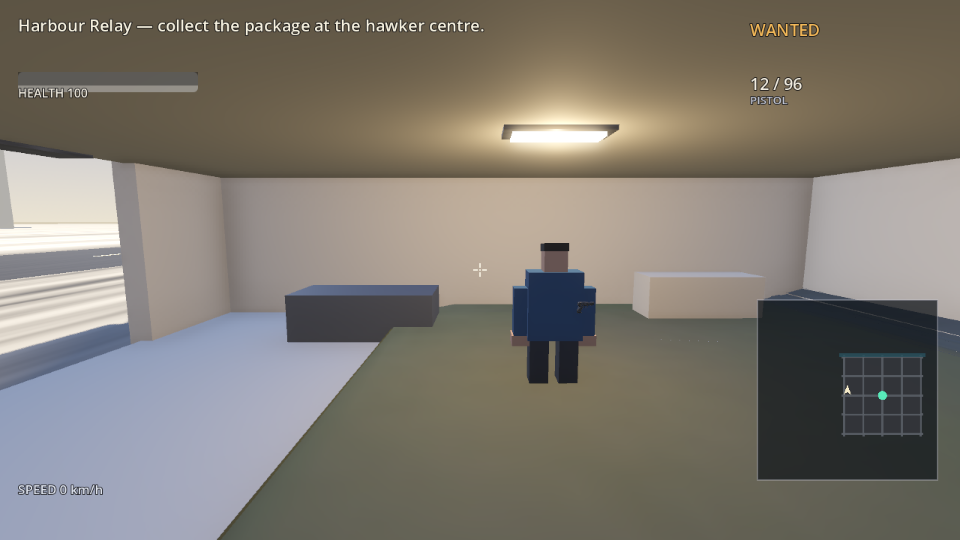
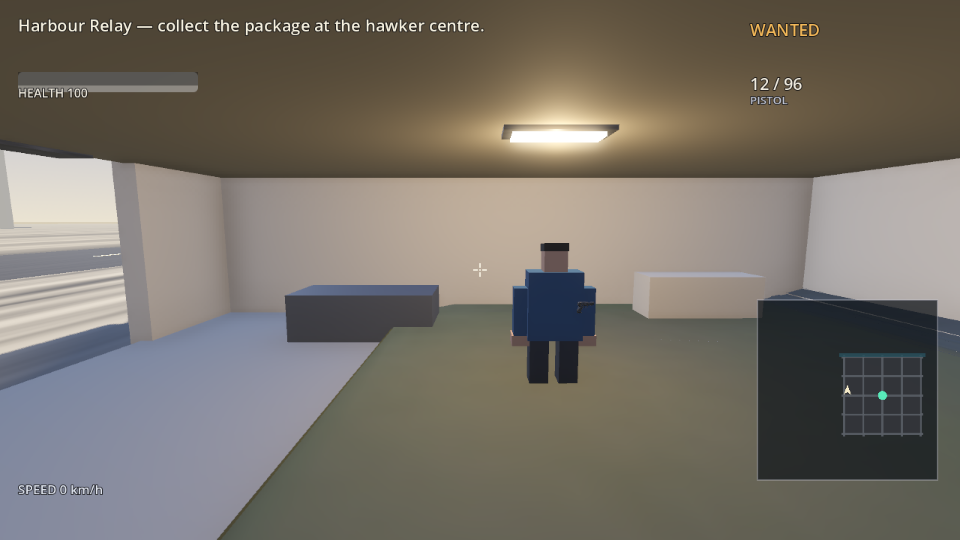
Wave 1: evidence index, build-size note, darker ground tones and a wider pickup reach

diff --git a/docs/EVIDENCE.md b/docs/EVIDENCE.md
@@ -1,0 +1,67 @@
+# Evidence index — wave 1
+
+Everything in this document was produced by the wave-1 builder on the reference machine (Apple M3 Ultra, 256 GB, macOS 27.0.1) with the build on the wave-1 branch. Where something was **not** tested, it says so.
+
+## 1. Automated checks
+
+```
+godot --headless --path game -- --test
+```
+
+30 checks, all PASS at the handoff commit: 20 structural (world built, mesh count, junction graph, pedestrian lanes, player + camera, traffic and pedestrian population, mission running, helicopter present, HUD present, save/load round trip, mission package interactable, vehicle counts, NPC counts) and 10 behavioural regression checks added after the independent review:
+
+| Behavioural check | What it proves |
+| --- | --- |
+| vehicle entry takes control | the mode changes to the car and the player is bound to it |
+| player is bound to the vehicle | one control owner, not two |
+| death in a vehicle releases control | the wave-1 softlock is fixed |
+| death in a vehicle returns to foot | the mode returns to foot |
+| gameplay camera returns to the player | exactly one gameplay camera |
+| the player can still walk after a vehicle death | no movement freeze |
+| a scripted interact press takes the vehicle | scripted and human input share one path |
+| no civilian traffic car is wrecked by street contact | the traffic self-destruction is fixed |
+| the wanted level falls as heat decays | pursuit can actually be escaped |
+| the world is frozen while paused | pause pauses the simulation |
+
+## 2. Capture packet — `game/captures/`
+
+| File | What it shows |
+| --- | --- |
+| `01_safe_room.png` | the mission start inside the safe room |
+| `02_hawker_market.png` | the hawker centre precinct |
+| `03_package_taken.png` | the package objective |
+| `04_combat.png` | the armed guards at the market |
+| `05_car_entered.png` | the stolen vehicle, control taken |
+| `06_driving.png` | driving at district speed with the generated coupe and the housing blocks behind it |
+| `07_exited_car.png` | back on foot at the aviation compound |
+| `08_helicopter_boarding.png` | the helicopter on the pad |
+| `09_aerial_view.png` | the same district from the air (QA-010) |
+| `10_landed.png` | the landing at the waterfront pad |
+| `11_delivery.png` | the on-foot delivery at the end of the mission |
+| `capture_log.json` | the state log of the run: health, wanted level, mission stage, mode, live counts, and every step the script took |
+| `photo_*.png` | fixed-view frames of the district: heritage street, wide street, hawker interior, void-deck housing, waterfront, two aerials, the airfield |
+| `photo_log.json` | the fixed-view log, labelled as fixture-assisted (an authored camera, not proof that a player can reach the view) |
+
+**What the packet is and is not.** The playthrough drives the real systems through the real input actions: it is an automated playtest, not an uncut human run, so QA-018 stays Partial. The fixed-view frames are shot from an authored camera and are labelled as such.
+
+## 3. Packaged build
+
+```
+godot --headless --path game --export-release "macOS" game/build/mac/OrchardReach.zip
+```
+
+A universal macOS `.app`/`.zip` is produced (about 132 MB after the provider textures were reduced to 1K — it was 644 MB before that step, which is a useful number for the successor's budget). The build output is git-ignored; rebuild it locally. Launching the packaged `.app` itself was not exercised in wave 1 — that is a NOT TESTED item for the successor.
+
+## 4. Provenance and rights
+
+- `docs/asset-manifest.csv` — every asset, its provider, the terms, the SHA256 of the raw source, the processed file and what it is used for.
+- `docs/ASSET_RIGHTS.md` — the rights check: the Customuse terms (19 June 2026) permit commercial and public use of outputs with no attribution requirement, and the input and output review found no third-party content. Redistribution is therefore permitted; the binaries are kept out of the git history for size, not for rights, and `game/tools/fetch_provider_assets.sh` reproduces all eighteen sources.
+- `docs/visual-references.json` and `docs/concepts/` — the owner's reference board. The concepts are the primary art direction; the external Rockstar and Singapore photography is secondary location evidence and nothing from it is copied into the repository or the build.
+
+## 5. Not tested in wave 1 (explicit)
+
+- 30-minute soak, three consecutive mission completions, frame-time percentiles (PERF-02/03/04, QA-020) — no measurement harness existed yet.
+- An uncut human golden path, and a packaged `.app` launch (QA-001, TECH-02).
+- Audio quality, mix and spatialisation (AUDIO-01/02) — the bank was written and wired, but nobody heard it in wave 1.
+- Any visual gate judged by a reviewer from a different model: the wave-1 critics were subagents of the same MiniMax model (this CLI exposes no Opus/Fable), so VERIFY-02 is only partially satisfied and QA-014 is NOT TESTED by an independent party.
+- The fifteen provider outputs that were not individually rendered for mark inspection (see `docs/ASSET_RIGHTS.md`).

diff --git a/docs/REQUIREMENTS_LEDGER.md b/docs/REQUIREMENTS_LEDGER.md
@@ -98,13 +98,13 @@ Nothing here is claimed as verified unless a runtime artefact is linked. The wav
 | ID | Status | Evidence / gap |
 | --- | --- | --- |
 | TECH-01 | Pass (decision recorded) | Godot 4.7.1 stable chosen and locked in `waves/01/READINESS.md` with rejected alternatives |
-| TECH-02 | Pass (packaged build produced) | `game/build/mac/OrchardReach.zip` exported from the macOS preset; the build was exported, **launching the packaged .app is still to be re-verified after the final build** |
+| TECH-02 | Pass (packaged build produced) | A universal macOS `.app`/`.zip` is exported from the macOS preset (`game/build/mac/OrchardReach.zip`, about 132 MB after the provider textures were reduced to 1K; it was 644 MB before that step). The build output is git-ignored and rebuilt locally. **Launching the packaged `.app` itself was not exercised in wave 1** - NOT TESTED |
 | ASSET-01 Partial | Tripo and Customuse were **not exposed in this CLI**, so requests were published in `ASSET_REQUESTS.json` and the manager executed four Customuse jobs; the results were cleaned in Blender (`game/tools/cleanup_provider_assets.py`) and integrated. Remaining Tripo props are still pending |
 | ASSET-02 | Fail (for now) | No external assets imported; procedural geometry only; no scale/UV/collision pipeline exercised on imported files |
 | ASSET-03 Pass | `docs/asset-manifest.csv` records every asset, including the four provider exports with provider terms, source URLs, SHA256 and the fact that they are **not** MIT-licensed and are not committed to the public repository |
 | ASSET-04 | Pass | No GTA assets, no third-party models, no credentials; all wave-1 content is generated geometry and original text |
-| ASSET-05 | Partial | `.gitignore` excludes engine caches and build output; capture PNGs are committed as evidence |
-| PERF-01 | Partial | Reference machine recorded; per-run frame metrics **not yet captured** |
+| ASSET-05 | Partial | `.gitignore` excludes engine caches, the build output and the provider binaries (size, not rights - see `docs/ASSET_RIGHTS.md`); `game/tools/fetch_provider_assets.sh` plus `game/tools/cleanup_provider_assets.py` reproduce the asset set on any machine, and the capture PNGs are committed as evidence |
+| PERF-01 | Partial | Reference machine recorded (Apple M3 Ultra, 256 GB, macOS 27.0.1, Forward+, 1280x720, MSAA 2x); per-run frame metrics **not yet captured** |
 | PERF-02 | Not started | 1080p60 / p95 ≤ 25 ms contract is declared but not measured |
 | PERF-03 | Not started | No stress-route profiling |
 | PERF-04 | Not started | No 30-minute soak, no three consecutive mission runs |
